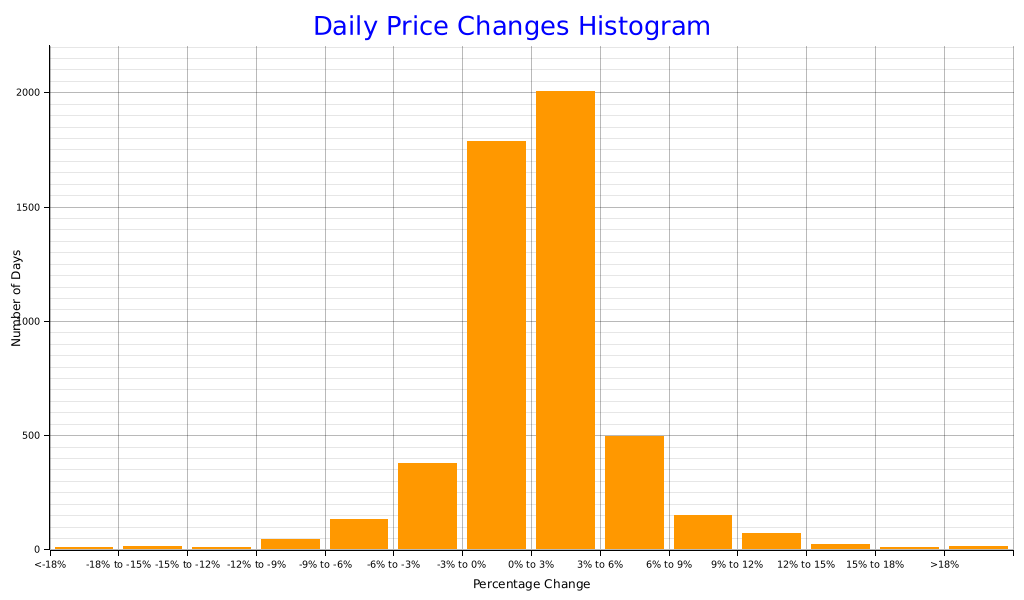
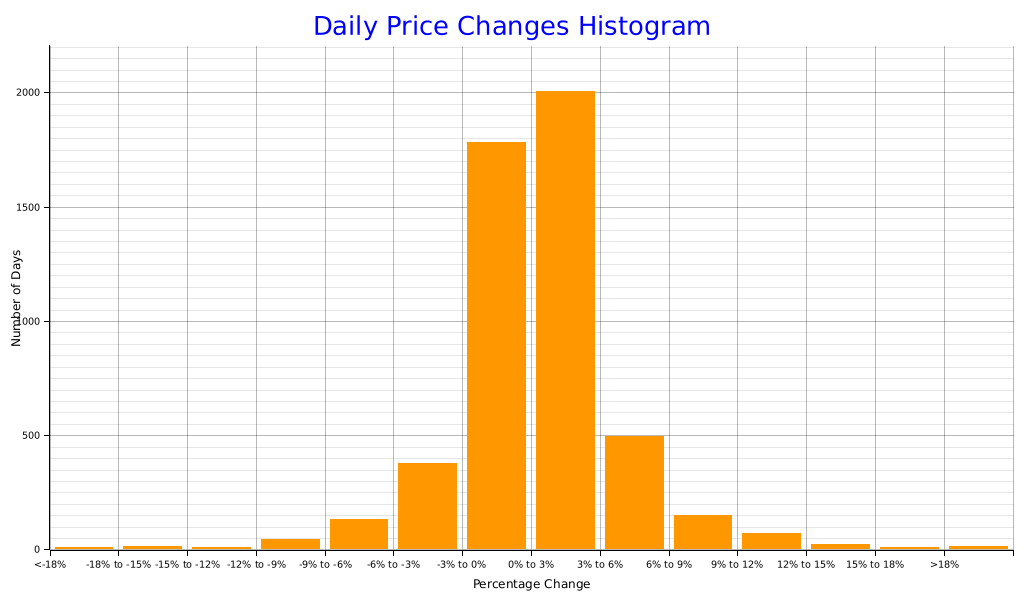
deploy: 95af0be866467ff5f422aab75c9020c8c4274433

diff --git a/index.html b/index.html
@@ -34,7 +34,7 @@
           <td>94,762.07</td>
           <td>87,399.40</td>
           <td></td>
-          <td>405,443,379,200.0</td>
+          <td>406,897,754,112.0</td>
         </tr>
         <tr>
           <td class='yearly-summary-year'>2025</td>
@@ -194,11 +194,11 @@
         </tr>
         <tr>
           <td>-3% to 0%</td>
-          <td>1785</td>
+          <td>1784</td>
         </tr>
         <tr>
           <td>0% to 3%</td>
-          <td>2004</td>
+          <td>2005</td>
         </tr>
         <tr>
           <td>3% to 6%</td>
@@ -235,7 +235,7 @@
     <br><br>
     <a href='https://github.com/bitcoin-tools/btracker'>Link to the report codebase</a>
     <br><br>
-    This report was last updated at 2026-01-12 14:48:23.498791802 UTC.
+    This report was last updated at 2026-01-12 15:29:11.523220438 UTC.
     <br><br>
     <div class='scrollable-table'>
       <table>
@@ -259,12 +259,12 @@
             <td>90,851.89</td>
             <td>92,340.86</td>
             <td>90,113.52</td>
-            <td>90,624.60</td>
-            <td class='wma-column'>57,274.26</td>
-            <td>36.39 (0.06 %)</td>
-            <td>50,957.84 (128.4 %)</td>
+            <td>91,207.06</td>
+            <td class='wma-column'>57,274.69</td>
+            <td>36.82 (0.06 %)</td>
+            <td>51,540.30 (129.9 %)</td>
             <td>2,227.34 (2.4 %)</td>
-            <td>-202.85 (0.2 %)</td>
+            <td>379.60 (0.4 %)</td>
           </tr>
           <tr>
             <td>2026-01-11</td>
